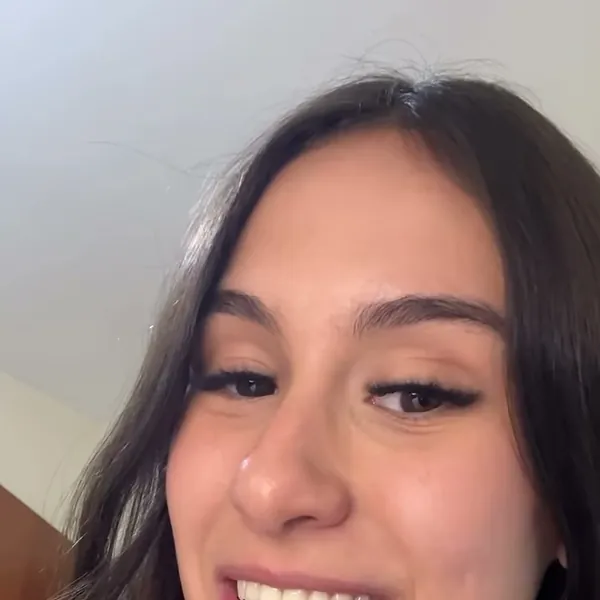
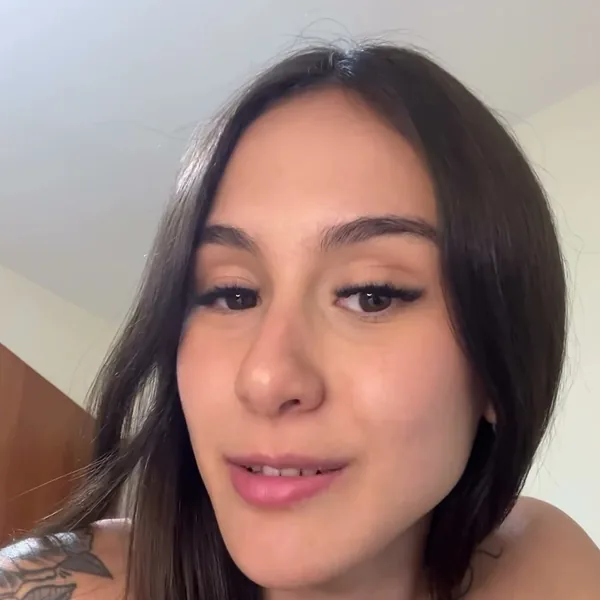
Corrige foto esticada no celular, novo retrato e botão flutuante no rodapé

diff --git a/index.html b/index.html
@@ -16,7 +16,7 @@
 <link href="https://api.fontshare.com/v2/css?f[]=cabinet-grotesk@400,500,800&display=swap" rel="stylesheet">
 <link rel="preload" as="image" href="media/hero-1.webp" media="(min-width: 700px)">
 <link rel="preload" as="image" href="media/olho-1.webp?v=2" media="(max-width: 699px)">
-<link rel="stylesheet" href="style.css?v=4">
+<link rel="stylesheet" href="style.css?v=5">
 <script>document.documentElement.classList.add('js')</script>
 </head>
 <body>
@@ -178,7 +178,7 @@
       <li><span>Agenda</span><a href="https://wa.me/5519995124885" target="_blank" rel="noopener">(19) 99512-4885</a></li>
     </ul>
     <div class="sobre__text">
-      <p class="sobre__p rv"><img class="sobre__face" src="media/vitoria-retrato.webp" alt="Retrato da Vitória Bordin" width="600" height="600" loading="lazy"><strong>Vitória Bordin</strong> usa cílios desde 2019 e nunca mais ficou sem. Saiu da CLT, tentou uma loja de roupa fitness e, quando não deu certo, fez da paixão a profissão.</p>
+      <p class="sobre__p rv"><img class="sobre__face" src="media/vitoria-retrato.webp?v=2" alt="Retrato da Vitória Bordin" width="600" height="600" loading="lazy"><strong>Vitória Bordin</strong> usa cílios desde 2019 e nunca mais ficou sem. Saiu da CLT, tentou uma loja de roupa fitness e, quando não deu certo, fez da paixão a profissão.</p>
       <p class="sobre__p sobre__p--soft rv">Hoje atende uma cliente por vez, com tempo para mapear cada olho e escolher junto o efeito que combina com você.</p>
     </div>
   </section>
@@ -261,6 +261,6 @@
   <span>Agendar</span>
 </a>
 
-<script src="main.js?v=2" defer></script>
+<script src="main.js?v=3" defer></script>
 </body>
 </html>

diff --git a/main.js b/main.js
@@ -96,7 +96,8 @@
 
   /* ---------- botão flutuante ---------- */
   const wa = $('.wa');
-  const showWa = () => wa.classList.toggle('is-on', scrollY > innerHeight * 0.8);
+  const foot = $('footer');
+  const showWa = () => wa.classList.toggle('is-on', scrollY > innerHeight * 0.8 && (!foot || foot.getBoundingClientRect().top > innerHeight * 0.75));
   addEventListener('scroll', showWa, { passive: true }); showWa();
 
   /* ---------- mapa de cílios ---------- */

diff --git a/style.css b/style.css
@@ -40,6 +40,7 @@ body {
   overflow-x: clip;
 }
 img, video, svg { display: block; max-width: 100%; }
+img, video { height: auto; }
 a { color: inherit; }
 h1, h2, h3, p, figure, ul, fieldset { margin: 0; }
 ul { padding: 0; list-style: none; }
